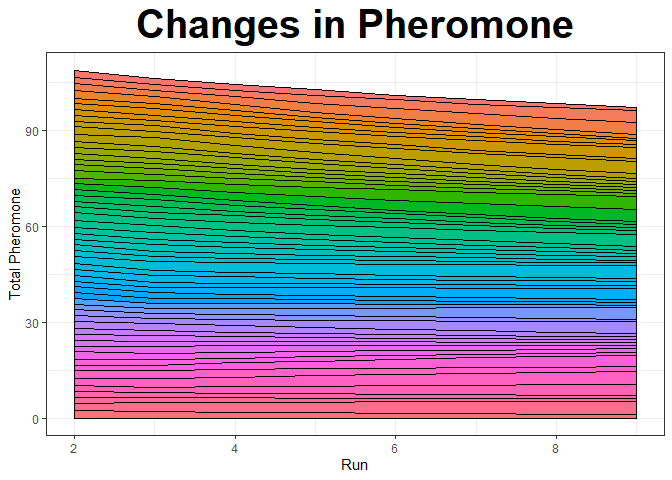
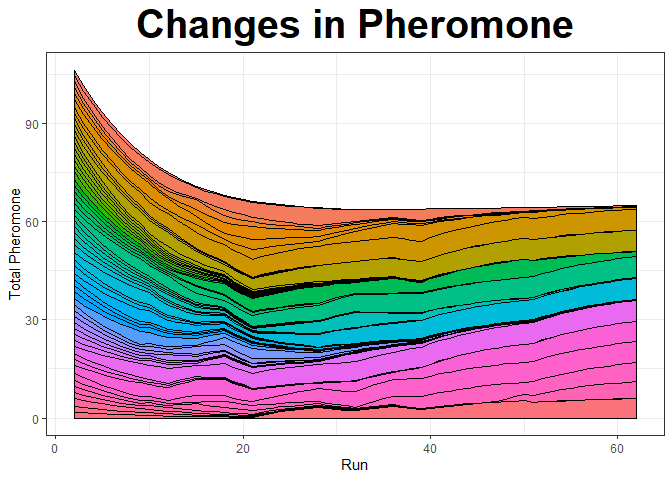
Updated README examples for additional clarity

diff --git a/README.md b/README.md
@@ -72,27 +72,27 @@ data(simulated_test_data)
 set.seed(1)
 abilityShortForm = antcolony.lavaan(data = simulated_test_data,
 ants = 10, evaporation = 0.9, antModel = exampleAntModel,
-list.items = list.items, full = 56, i.per.f = 15,
+list.items = list.items, full = 56, i.per.f = 10,
 lavaan.model.specs = list(model.type = "cfa", auto.var = T, estimator = "default", 
                           ordered = unlist(list.items), int.ov.free = TRUE,
                           int.lv.free = FALSE, auto.fix.first = TRUE, 
                           auto.fix.single = TRUE, std.lv = FALSE, auto.cov.lv.x = TRUE, 
                           auto.th = TRUE, auto.delta = TRUE, 
                           auto.cov.y = TRUE),
-factors = 'Ability', steps = 50, fit.indices = c('cfi', 'rmsea'),
+factors = 'Ability', steps = 100, fit.indices = c('cfi', 'rmsea'),
 fit.statistics.test = "(cfi > 0.90)&(rmsea < 0.10)",
 summaryfile = NULL,
 feedbackfile = NULL,
 max.run = 100, parallel = T)
-##   Run number 1 and ant number 1.            Run number 1 and ant number 2.            Run number 1 and ant number 3.            Run number 1 and ant number 4.            Run number 1 and ant number 5.            Run number 1 and ant number 6.            Run number 1 and ant number 7.            Run number 1 and ant number 8.            Run number 1 and ant number 9.            Run number 1 and ant number 10.            Run number 2 and ant number 1.            Run number 2 and ant number 2.            Run number 2 and ant number 3.            Run number 2 and ant number 4.            Run number 2 and ant number 5.            Run number 2 and ant number 6.            Run number 2 and ant number 7.            Run number 2 and ant number 8.            Run number 2 and ant number 9.            Run number 2 and ant number 10.            Run number 3 and ant number 1.            Run number 3 and ant number 2.            Run number 3 and ant number 3.            Run number 3 and ant number 4.            Run number 3 and ant number 5.            Run number 3 and ant number 6.            Run number 3 and ant number 7.            Run number 3 and ant number 8.            Run number 3 and ant number 9.            Run number 3 and ant number 10.            Run number 4 and ant number 1.            Run number 4 and ant number 2.            Run number 4 and ant number 3.            Run number 4 and ant number 4.            Run number 4 and ant number 5.            Run number 4 and ant number 6.            Run number 4 and ant number 7.            Run number 4 and ant number 8.            Run number 4 and ant number 9.            Run number 4 and ant number 10.            Run number 5 and ant number 1.            Run number 5 and ant number 2.            Run number 5 and ant number 3.            Run number 5 and ant number 4.            Run number 5 and ant number 5.            Run number 5 and ant number 6.            Run number 5 and ant number 7.            Run number 5 and ant number 8.            Run number 5 and ant number 9.            Run number 5 and ant number 10.            Run number 6 and ant number 1.            Run number 6 and ant number 2.            Run number 6 and ant number 3.            Run number 6 and ant number 4.            Run number 6 and ant number 5.            Run number 6 and ant number 6.            Run number 6 and ant number 7.            Run number 6 and ant number 8.            Run number 6 and ant number 9.            Run number 6 and ant number 10.            Run number 7 and ant number 1.            Run number 7 and ant number 2.            Run number 7 and ant number 3.            Run number 7 and ant number 4.            Run number 7 and ant number 5.            Run number 7 and ant number 6.            Run number 7 and ant number 7.            Run number 7 and ant number 8.            Run number 7 and ant number 9.            Run number 7 and ant number 10.            Run number 8 and ant number 1.            Run number 8 and ant number 2.            Run number 8 and ant number 3.            Run number 8 and ant number 4.            Run number 8 and ant number 5.            Run number 8 and ant number 6.            Run number 8 and ant number 7.            Run number 8 and ant number 8.            Run number 8 and ant number 9.            Run number 8 and ant number 10.           [1] "Compiling results."
+##   Run number 1 and ant number 1.            Run number 1 and ant number 2.            Run number 1 and ant number 3.            Run number 1 and ant number 4.            Run number 1 and ant number 5.            Run number 1 and ant number 6.            Run number 1 and ant number 7.            Run number 1 and ant number 8.            Run number 1 and ant number 9.            Run number 1 and ant number 10.            Run number 2 and ant number 1.            Run number 2 and ant number 2.            Run number 2 and ant number 3.            Run number 2 and ant number 4.            Run number 2 and ant number 5.            Run number 2 and ant number 6.            Run number 2 and ant number 7.            Run number 2 and ant number 8.            Run number 2 and ant number 9.            Run number 2 and ant number 10.            Run number 3 and ant number 1.            Run number 3 and ant number 2.            Run number 3 and ant number 3.            Run number 3 and ant number 4.            Run number 3 and ant number 5.            Run number 3 and ant number 6.            Run number 3 and ant number 7.            Run number 3 and ant number 8.            Run number 3 and ant number 9.            Run number 3 and ant number 10.            Run number 4 and ant number 1.            Run number 4 and ant number 2.            Run number 4 and ant number 3.            Run number 4 and ant number 4.            Run number 4 and ant number 5.            Run number 4 and ant number 6.            Run number 4 and ant number 7.            Run number 4 and ant number 8.            Run number 4 and ant number 9.            Run number 4 and ant number 10.            Run number 5 and ant number 1.            Run number 5 and ant number 2.            Run number 5 and ant number 3.            Run number 5 and ant number 4.            Run number 5 and ant number 5.            Run number 5 and ant number 6.            Run number 5 and ant number 7.            Run number 5 and ant number 8.            Run number 5 and ant number 9.            Run number 5 and ant number 10.            Run number 6 and ant number 1.            Run number 6 and ant number 2.            Run number 6 and ant number 3.            Run number 6 and ant number 4.            Run number 6 and ant number 5.            Run number 6 and ant number 6.            Run number 6 and ant number 7.            Run number 6 and ant number 8.            Run number 6 and ant number 9.            Run number 6 and ant number 10.            Run number 7 and ant number 1.            Run number 7 and ant number 2.            Run number 7 and ant number 3.            Run number 7 and ant number 4.            Run number 7 and ant number 5.            Run number 7 and ant number 6.            Run number 7 and ant number 7.            Run number 7 and ant number 8.            Run number 7 and ant number 9.            Run number 7 and ant number 10.            Run number 8 and ant number 1.            Run number 8 and ant number 2.            Run number 8 and ant number 3.            Run number 8 and ant number 4.            Run number 8 and ant number 5.            Run number 8 and ant number 6.            Run number 8 and ant number 7.            Run number 8 and ant number 8.            Run number 8 and ant number 9.            Run number 8 and ant number 10.            Run number 9 and ant number 1.            Run number 9 and ant number 2.            Run number 9 and ant number 3.            Run number 9 and ant number 4.            Run number 9 and ant number 5.            Run number 9 and ant number 6.            Run number 9 and ant number 7.            Run number 9 and ant number 8.            Run number 9 and ant number 9.            Run number 9 and ant number 10.            Run number 10 and ant number 1.            Run number 10 and ant number 2.            Run number 10 and ant number 3.            Run number 10 and ant number 4.            Run number 10 and ant number 5.            Run number 10 and ant number 6.            Run number 10 and ant number 7.            Run number 10 and ant number 8.            Run number 10 and ant number 9.            Run number 10 and ant number 10.            Run number 11 and ant number 1.            Run number 11 and ant number 2.            Run number 11 and ant number 3.            Run number 11 and ant number 4.            Run number 11 and ant number 5.            Run number 11 and ant number 6.            Run number 11 and ant number 7.            Run number 11 and ant number 8.            Run number 11 and ant number 9.            Run number 11 and ant number 10.            Run number 12 and ant number 1.            Run number 12 and ant number 2.            Run number 12 and ant number 3.            Run number 12 and ant number 4.            Run number 12 and ant number 5.            Run number 12 and ant number 6.            Run number 12 and ant number 7.            Run number 12 and ant number 8.            Run number 12 and ant number 9.            Run number 12 and ant number 10.            Run number 13 and ant number 1.            Run number 13 and ant number 2.            Run number 13 and ant number 3.            Run number 13 and ant number 4.            Run number 13 and ant number 5.            Run number 13 and ant number 6.            Run number 13 and ant number 7.            Run number 13 and ant number 8.            Run number 13 and ant number 9.            Run number 13 and ant number 10.            Run number 14 and ant number 1.            Run number 14 and ant number 2.            Run number 14 and ant number 3.            Run number 14 and ant number 4.            Run number 14 and ant number 5.            Run number 14 and ant number 6.            Run number 14 and ant number 7.            Run number 14 and ant number 8.            Run number 14 and ant number 9.            Run number 14 and ant number 10.            Run number 15 and ant number 1.            Run number 15 and ant number 2.            Run number 15 and ant number 3.            Run number 15 and ant number 4.            Run number 15 and ant number 5.            Run number 15 and ant number 6.            Run number 15 and ant number 7.            Run number 15 and ant number 8.            Run number 15 and ant number 9.            Run number 15 and ant number 10.            Run number 16 and ant number 1.            Run number 16 and ant number 2.            Run number 16 and ant number 3.            Run number 16 and ant number 4.            Run number 16 and ant number 5.            Run number 16 and ant number 6.            Run number 16 and ant number 7.            Run number 16 and ant number 8.            Run number 16 and ant number 9.            Run number 16 and ant number 10.            Run number 17 and ant number 1.            Run number 17 and ant number 2.            Run number 17 and ant number 3.            Run number 17 and ant number 4.            Run number 17 and ant number 5.            Run number 17 and ant number 6.            Run number 17 and ant number 7.            Run number 17 and ant number 8.            Run number 17 and ant number 9.            Run number 17 and ant number 10.            Run number 18 and ant number 1.            Run number 18 and ant number 2.            Run number 18 and ant number 3.            Run number 18 and ant number 4.            Run number 18 and ant number 5.            Run number 18 and ant number 6.            Run number 18 and ant number 7.            Run number 18 and ant number 8.            Run number 18 and ant number 9.            Run number 18 and ant number 10.            Run number 19 and ant number 1.            Run number 19 and ant number 2.            Run number 19 and ant number 3.            Run number 19 and ant number 4.            Run number 19 and ant number 5.            Run number 19 and ant number 6.            Run number 19 and ant number 7.            Run number 19 and ant number 8.            Run number 19 and ant number 9.            Run number 19 and ant number 10.            Run number 20 and ant number 1.            Run number 20 and ant number 2.            Run number 20 and ant number 3.            Run number 20 and ant number 4.            Run number 20 and ant number 5.            Run number 20 and ant number 6.            Run number 20 and ant number 7.            Run number 20 and ant number 8.            Run number 20 and ant number 9.            Run number 20 and ant number 10.            Run number 21 and ant number 1.            Run number 21 and ant number 2.            Run number 21 and ant number 3.            Run number 21 and ant number 4.            Run number 21 and ant number 5.            Run number 21 and ant number 6.            Run number 21 and ant number 7.            Run number 21 and ant number 8.            Run number 21 and ant number 9.            Run number 21 and ant number 10.            Run number 22 and ant number 1.            Run number 22 and ant number 2.            Run number 22 and ant number 3.            Run number 22 and ant number 4.            Run number 22 and ant number 5.            Run number 22 and ant number 6.            Run number 22 and ant number 7.            Run number 22 and ant number 8.            Run number 22 and ant number 9.            Run number 22 and ant number 10.            Run number 23 and ant number 1.            Run number 23 and ant number 2.            Run number 23 and ant number 3.            Run number 23 and ant number 4.            Run number 23 and ant number 5.            Run number 23 and ant number 6.            Run number 23 and ant number 7.            Run number 23 and ant number 8.            Run number 23 and ant number 9.            Run number 23 and ant number 10.            Run number 24 and ant number 1.            Run number 24 and ant number 2.            Run number 24 and ant number 3.            Run number 24 and ant number 4.            Run number 24 and ant number 5.            Run number 24 and ant number 6.            Run number 24 and ant number 7.            Run number 24 and ant number 8.            Run number 24 and ant number 9.            Run number 24 and ant number 10.            Run number 25 and ant number 1.            Run number 25 and ant number 2.            Run number 25 and ant number 3.            Run number 25 and ant number 4.            Run number 25 and ant number 5.            Run number 25 and ant number 6.            Run number 25 and ant number 7.            Run number 25 and ant number 8.            Run number 25 and ant number 9.            Run number 25 and ant number 10.            Run number 26 and ant number 1.            Run number 26 and ant number 2.            Run number 26 and ant number 3.            Run number 26 and ant number 4.            Run number 26 and ant number 5.            Run number 26 and ant number 6.            Run number 26 and ant number 7.            Run number 26 and ant number 8.            Run number 26 and ant number 9.            Run number 26 and ant number 10.            Run number 27 and ant number 1.            Run number 27 and ant number 2.            Run number 27 and ant number 3.            Run number 27 and ant number 4.            Run number 27 and ant number 5.            Run number 27 and ant number 6.            Run number 27 and ant number 7.            Run number 27 and ant number 8.            Run number 27 and ant number 9.            Run number 27 and ant number 10.            Run number 28 and ant number 1.            Run number 28 and ant number 2.            Run number 28 and ant number 3.            Run number 28 and ant number 4.            Run number 28 and ant number 5.            Run number 28 and ant number 6.            Run number 28 and ant number 7.            Run number 28 and ant number 8.            Run number 28 and ant number 9.            Run number 28 and ant number 10.            Run number 29 and ant number 1.            Run number 29 and ant number 2.            Run number 29 and ant number 3.            Run number 29 and ant number 4.            Run number 29 and ant number 5.            Run number 29 and ant number 6.            Run number 29 and ant number 7.            Run number 29 and ant number 8.            Run number 29 and ant number 9.            Run number 29 and ant number 10.            Run number 30 and ant number 1.            Run number 30 and ant number 2.            Run number 30 and ant number 3.            Run number 30 and ant number 4.            Run number 30 and ant number 5.            Run number 30 and ant number 6.            Run number 30 and ant number 7.            Run number 30 and ant number 8.            Run number 30 and ant number 9.            Run number 30 and ant number 10.            Run number 31 and ant number 1.            Run number 31 and ant number 2.            Run number 31 and ant number 3.            Run number 31 and ant number 4.            Run number 31 and ant number 5.            Run number 31 and ant number 6.            Run number 31 and ant number 7.            Run number 31 and ant number 8.            Run number 31 and ant number 9.            Run number 31 and ant number 10.            Run number 32 and ant number 1.            Run number 32 and ant number 2.            Run number 32 and ant number 3.            Run number 32 and ant number 4.            Run number 32 and ant number 5.            Run number 32 and ant number 6.            Run number 32 and ant number 7.            Run number 32 and ant number 8.            Run number 32 and ant number 9.            Run number 32 and ant number 10.            Run number 33 and ant number 1.            Run number 33 and ant number 2.            Run number 33 and ant number 3.            Run number 33 and ant number 4.            Run number 33 and ant number 5.            Run number 33 and ant number 6.            Run number 33 and ant number 7.            Run number 33 and ant number 8.            Run number 33 and ant number 9.            Run number 33 and ant number 10.            Run number 34 and ant number 1.            Run number 34 and ant number 2.            Run number 34 and ant number 3.            Run number 34 and ant number 4.            Run number 34 and ant number 5.            Run number 34 and ant number 6.            Run number 34 and ant number 7.            Run number 34 and ant number 8.            Run number 34 and ant number 9.            Run number 34 and ant number 10.            Run number 35 and ant number 1.            Run number 35 and ant number 2.            Run number 35 and ant number 3.            Run number 35 and ant number 4.            Run number 35 and ant number 5.            Run number 35 and ant number 6.            Run number 35 and ant number 7.            Run number 35 and ant number 8.            Run number 35 and ant number 9.            Run number 35 and ant number 10.            Run number 36 and ant number 1.            Run number 36 and ant number 2.            Run number 36 and ant number 3.            Run number 36 and ant number 4.            Run number 36 and ant number 5.            Run number 36 and ant number 6.            Run number 36 and ant number 7.            Run number 36 and ant number 8.            Run number 36 and ant number 9.            Run number 36 and ant number 10.            Run number 37 and ant number 1.            Run number 37 and ant number 2.            Run number 37 and ant number 3.            Run number 37 and ant number 4.            Run number 37 and ant number 5.            Run number 37 and ant number 6.            Run number 37 and ant number 7.            Run number 37 and ant number 8.            Run number 37 and ant number 9.            Run number 37 and ant number 10.            Run number 38 and ant number 1.            Run number 38 and ant number 2.            Run number 38 and ant number 3.            Run number 38 and ant number 4.            Run number 38 and ant number 5.            Run number 38 and ant number 6.            Run number 38 and ant number 7.            Run number 38 and ant number 8.            Run number 38 and ant number 9.            Run number 38 and ant number 10.            Run number 39 and ant number 1.            Run number 39 and ant number 2.            Run number 39 and ant number 3.            Run number 39 and ant number 4.            Run number 39 and ant number 5.            Run number 39 and ant number 6.            Run number 39 and ant number 7.            Run number 39 and ant number 8.            Run number 39 and ant number 9.            Run number 39 and ant number 10.            Run number 40 and ant number 1.            Run number 40 and ant number 2.            Run number 40 and ant number 3.            Run number 40 and ant number 4.            Run number 40 and ant number 5.            Run number 40 and ant number 6.            Run number 40 and ant number 7.            Run number 40 and ant number 8.            Run number 40 and ant number 9.            Run number 40 and ant number 10.            Run number 41 and ant number 1.            Run number 41 and ant number 2.            Run number 41 and ant number 3.            Run number 41 and ant number 4.            Run number 41 and ant number 5.            Run number 41 and ant number 6.            Run number 41 and ant number 7.            Run number 41 and ant number 8.            Run number 41 and ant number 9.            Run number 41 and ant number 10.            Run number 42 and ant number 1.            Run number 42 and ant number 2.            Run number 42 and ant number 3.            Run number 42 and ant number 4.            Run number 42 and ant number 5.            Run number 42 and ant number 6.            Run number 42 and ant number 7.            Run number 42 and ant number 8.            Run number 42 and ant number 9.            Run number 42 and ant number 10.            Run number 43 and ant number 1.            Run number 43 and ant number 2.            Run number 43 and ant number 3.            Run number 43 and ant number 4.            Run number 43 and ant number 5.            Run number 43 and ant number 6.            Run number 43 and ant number 7.            Run number 43 and ant number 8.            Run number 43 and ant number 9.            Run number 43 and ant number 10.            Run number 44 and ant number 1.            Run number 44 and ant number 2.            Run number 44 and ant number 3.            Run number 44 and ant number 4.            Run number 44 and ant number 5.            Run number 44 and ant number 6.            Run number 44 and ant number 7.            Run number 44 and ant number 8.            Run number 44 and ant number 9.            Run number 44 and ant number 10.            Run number 45 and ant number 1.            Run number 45 and ant number 2.            Run number 45 and ant number 3.            Run number 45 and ant number 4.            Run number 45 and ant number 5.            Run number 45 and ant number 6.            Run number 45 and ant number 7.            Run number 45 and ant number 8.            Run number 45 and ant number 9.            Run number 45 and ant number 10.            Run number 46 and ant number 1.            Run number 46 and ant number 2.            Run number 46 and ant number 3.            Run number 46 and ant number 4.            Run number 46 and ant number 5.            Run number 46 and ant number 6.            Run number 46 and ant number 7.            Run number 46 and ant number 8.            Run number 46 and ant number 9.            Run number 46 and ant number 10.            Run number 47 and ant number 1.            Run number 47 and ant number 2.            Run number 47 and ant number 3.            Run number 47 and ant number 4.            Run number 47 and ant number 5.            Run number 47 and ant number 6.            Run number 47 and ant number 7.            Run number 47 and ant number 8.            Run number 47 and ant number 9.            Run number 47 and ant number 10.            Run number 48 and ant number 1.            Run number 48 and ant number 2.            Run number 48 and ant number 3.            Run number 48 and ant number 4.            Run number 48 and ant number 5.            Run number 48 and ant number 6.            Run number 48 and ant number 7.            Run number 48 and ant number 8.            Run number 48 and ant number 9.            Run number 48 and ant number 10.            Run number 49 and ant number 1.            Run number 49 and ant number 2.            Run number 49 and ant number 3.            Run number 49 and ant number 4.            Run number 49 and ant number 5.            Run number 49 and ant number 6.            Run number 49 and ant number 7.            Run number 49 and ant number 8.            Run number 49 and ant number 9.            Run number 49 and ant number 10.            Run number 50 and ant number 1.            Run number 50 and ant number 2.            Run number 50 and ant number 3.            Run number 50 and ant number 4.            Run number 50 and ant number 5.            Run number 50 and ant number 6.            Run number 50 and ant number 7.            Run number 50 and ant number 8.            Run number 50 and ant number 9.            Run number 50 and ant number 10.            Run number 51 and ant number 1.            Run number 51 and ant number 2.            Run number 51 and ant number 3.            Run number 51 and ant number 4.            Run number 51 and ant number 5.            Run number 51 and ant number 6.            Run number 51 and ant number 7.            Run number 51 and ant number 8.            Run number 51 and ant number 9.            Run number 51 and ant number 10.            Run number 52 and ant number 1.            Run number 52 and ant number 2.            Run number 52 and ant number 3.            Run number 52 and ant number 4.            Run number 52 and ant number 5.            Run number 52 and ant number 6.            Run number 52 and ant number 7.            Run number 52 and ant number 8.            Run number 52 and ant number 9.            Run number 52 and ant number 10.            Run number 53 and ant number 1.            Run number 53 and ant number 2.            Run number 53 and ant number 3.            Run number 53 and ant number 4.            Run number 53 and ant number 5.            Run number 53 and ant number 6.            Run number 53 and ant number 7.            Run number 53 and ant number 8.            Run number 53 and ant number 9.            Run number 53 and ant number 10.            Run number 54 and ant number 1.            Run number 54 and ant number 2.            Run number 54 and ant number 3.            Run number 54 and ant number 4.            Run number 54 and ant number 5.            Run number 54 and ant number 6.            Run number 54 and ant number 7.            Run number 54 and ant number 8.            Run number 54 and ant number 9.            Run number 54 and ant number 10.            Run number 55 and ant number 1.            Run number 55 and ant number 2.            Run number 55 and ant number 3.            Run number 55 and ant number 4.            Run number 55 and ant number 5.            Run number 55 and ant number 6.            Run number 55 and ant number 7.            Run number 55 and ant number 8.            Run number 55 and ant number 9.            Run number 55 and ant number 10.            Run number 56 and ant number 1.            Run number 56 and ant number 2.            Run number 56 and ant number 3.            Run number 56 and ant number 4.            Run number 56 and ant number 5.            Run number 56 and ant number 6.            Run number 56 and ant number 7.            Run number 56 and ant number 8.            Run number 56 and ant number 9.            Run number 56 and ant number 10.            Run number 57 and ant number 1.            Run number 57 and ant number 2.            Run number 57 and ant number 3.            Run number 57 and ant number 4.            Run number 57 and ant number 5.            Run number 57 and ant number 6.            Run number 57 and ant number 7.            Run number 57 and ant number 8.            Run number 57 and ant number 9.            Run number 57 and ant number 10.            Run number 58 and ant number 1.            Run number 58 and ant number 2.            Run number 58 and ant number 3.            Run number 58 and ant number 4.            Run number 58 and ant number 5.            Run number 58 and ant number 6.            Run number 58 and ant number 7.            Run number 58 and ant number 8.            Run number 58 and ant number 9.            Run number 58 and ant number 10.            Run number 59 and ant number 1.            Run number 59 and ant number 2.            Run number 59 and ant number 3.            Run number 59 and ant number 4.            Run number 59 and ant number 5.            Run number 59 and ant number 6.            Run number 59 and ant number 7.            Run number 59 and ant number 8.            Run number 59 and ant number 9.            Run number 59 and ant number 10.            Run number 60 and ant number 1.            Run number 60 and ant number 2.            Run number 60 and ant number 3.            Run number 60 and ant number 4.            Run number 60 and ant number 5.            Run number 60 and ant number 6.            Run number 60 and ant number 7.            Run number 60 and ant number 8.            Run number 60 and ant number 9.            Run number 60 and ant number 10.            Run number 61 and ant number 1.            Run number 61 and ant number 2.            Run number 61 and ant number 3.            Run number 61 and ant number 4.            Run number 61 and ant number 5.            Run number 61 and ant number 6.            Run number 61 and ant number 7.            Run number 61 and ant number 8.            Run number 61 and ant number 9.            Run number 61 and ant number 10.           [1] "Compiling results."
 abilityShortForm # print the results of the final short form
 ##  Algorithm: Ant Colony Optimization
-##  Total Run Time: 33.628 secs
+##  Total Run Time: 2.419 mins
 ##  
 ##  Function call:
 ##  antcolony.lavaan(data = simulated_test_data, ants = 10, evaporation = 0.9,
-##    antModel = exampleAntModel, list.items = list.items, full = 56, i.per.f = 15,
-##    factors = "Ability", steps = 50, lavaan.model.specs = list(model.type = "cfa",
+##    antModel = exampleAntModel, list.items = list.items, full = 56, i.per.f = 10,
+##    factors = "Ability", steps = 100, lavaan.model.specs = list(model.type = "cfa",
 ##    auto.var = T, estimator = "default", ordered = unlist(list.items), int.ov.free
 ##    = TRUE, int.lv.free = FALSE, auto.fix.first = TRUE, auto.fix.single = TRUE,
 ##    std.lv = FALSE, auto.cov.lv.x = TRUE, auto.th = TRUE, auto.delta = TRUE,
@@ -102,8 +102,8 @@ abilityShortForm # print the results of the final short form
 ##  
 ##  Final Model Syntax:
 ##  
-##  Ability =~ Item11 + Item56 + Item8 + Item18 + Item55 + Item16 + Item30 + Item53
-##    + Item46 + Item25 + Item44 + Item10 + Item40 + Item37 + Item26
+##  Ability =~ Item54 + Item37 + Item55 + Item30 + Item56 + Item9 + Item50 + Item19
+##    + Item53 + Item16
 ##  Outcome ~ Ability
 plot(abilityShortForm, type = 'pheromone') # the pheromone plot for class "antcolony"
 ```
@@ -112,7 +112,7 @@ plot(abilityShortForm, type = 'pheromone') # the pheromone plot for class "antco
 
 A similar example can be found in the `antcolony.mplus` function, but
 requires you to have a valid Mplus installation on the computer. It took
-a total of 36.42 secs to run this example.
+a total of 2.47 mins to run this example.
 
 ### Tabu Search Algorithm
 
@@ -156,10 +156,12 @@ Trait2 =~ 0*Item1 + 0*Item2 + 0*Item3 + 0*Item4 + 0*Item5 + 0*Item6 + Item7 + It
 '
 # fit the initial misspecified model for Tabu
 init.model <- lavaan::lavaan(model = tabuModel, data = tabuData, 
-                             auto.var=TRUE, auto.fix.first=FALSE, std.lv=TRUE,auto.cov.lv.x=FALSE)
+                             auto.var=TRUE, auto.fix.first=FALSE, std.lv=TRUE,
+                             auto.cov.lv.x=FALSE)
 
 # use search.prep to prepare for the Tabu search
-ptab <- search.prep(fitted.model = init.model, loadings=TRUE, fcov=FALSE, errors=FALSE)
+ptab <- search.prep(fitted.model = init.model, loadings=TRUE, fcov=FALSE, 
+                    errors=FALSE)
 
 Tabu_example <- suppressWarnings(tabu.sem(init.model = init.model, ptab = ptab, obj = AIC, niter = 20, tabu.size = 10)) # the suppressWarning wrapping hides the lavaan WARNING output from improper models
 ##  Running iteration 1 of 20.   Running iteration 2 of 20.   Running iteration 3 of 20.   Running iteration 4 of 20.   Running iteration 5 of 20.   Running iteration 6 of 20.   Running iteration 7 of 20.   Running iteration 8 of 20.   Running iteration 9 of 20.   Running iteration 10 of 20.   Running iteration 11 of 20.   Running iteration 12 of 20.   Running iteration 13 of 20.   Running iteration 14 of 20.   Running iteration 15 of 20.   Running iteration 16 of 20.   Running iteration 17 of 20.   Running iteration 18 of 20.   Running iteration 19 of 20.   Running iteration 20 of 20.
@@ -167,7 +169,7 @@ Tabu_example <- suppressWarnings(tabu.sem(init.model = init.model, ptab = ptab, 
 # check the final model
 summary(Tabu_example)
 ##  Algorithm: Tabu Search
-##  Total Run Time: 1.9 mins
+##  Total Run Time: 1.957 mins
 ##  
 ##  lavaan 0.6-5 ended normally after 43 iterations
 ##  
@@ -195,7 +197,7 @@ plot(Tabu_example)
 
 ![](README-Tabu%20example-1.png)<!-- -->
 
-It took a total of 1.91 mins to run this example.
+It took a total of 1.96 mins to run this example.
 
 The next Tabu example demonstrates how to use it to find a short form of
 a prespecified length with different data.
@@ -259,7 +261,7 @@ tabuCriterion = function(x) {
 # use the tabuShortForm function
 # reduce form to the best 12 items, 3 per factor
 tabuShort <- tabuShortForm(initialModel = tabuModel, originalData = tabuData,
-                           numItems = c(4,4,4,4), 
+                           numItems = c(3,3,3,3), 
                            criterion = tabuCriterion,
                            niter = 20, tabu.size = 10, verbose = FALSE
                            )
@@ -268,35 +270,35 @@ tabuShort <- tabuShortForm(initialModel = tabuModel, originalData = tabuData,
 # check the chosen model
 summary(tabuShort)
 ##  Algorithm: Tabu Search
-##  Total Run Time: 1.8 mins
+##  Total Run Time: 1.262 mins
 ##  
-##  lavaan 0.6-5 ended normally after 19 iterations
+##  lavaan 0.6-5 ended normally after 21 iterations
 ##  
 ##    Estimator                                         ML
 ##    Optimization method                           NLMINB
-##    Number of free parameters                         38
+##    Number of free parameters                         30
 ##                                                        
 ##    Number of observations                           600
 ##                                                        
 ##  Model Test User Model:
 ##                                                        
-##    Test statistic                                54.642
-##    Degrees of freedom                                98
+##    Test statistic                                15.868
+##    Degrees of freedom                                48
 ##    P-value (Chi-square)                           1.000
 ##  
 ##  
 ##  Final Model Syntax:
-##  Trait1 =~ Item3 + Item4 + Item11 + Item8
-##  Trait2 =~ Item16 + Item19 + Item20 + Item15
-##  Trait3 =~ Item30 + Item31 + Item35 + Item36
-##  Trait4 =~ Item40 + Item45 + Item43 + Item44
+##  Trait1 =~ Item6 + Item7 + Item10
+##  Trait2 =~ Item18 + Item16 + Item20
+##  Trait3 =~ Item30 + Item35 + Item31
+##  Trait4 =~ Item41 + Item40 + Item43
 # plot the changes in the objective function over each iteration
 plot(tabuShort)
 ```
 
 ![](README-Tabu%20short%20form-1.png)<!-- -->
 
-It took a total of 1.81 mins to run this example.
+It took a total of 1.27 mins to run this example.
 
 ### Simulated Annealing
 
@@ -338,7 +340,7 @@ SA_example <- simulatedAnnealing(initialModel = saModel, originalData = saData, 
 ##  Chain number 4 complete.
 summary(SA_example)
 ##  Algorithm: Simulated Annealing
-##  Total Run Time: 1.503 mins
+##  Total Run Time: 1.559 mins
 ##  
 ##  lavaan 0.6-5 ended normally after 15 iterations
 ##  
@@ -366,5 +368,5 @@ plot(SA_example) # plot showing how the fit value changes at each step
 
 ![](README-Simulated%20Annealing%20example-1.png)<!-- -->
 
-It took a total of 1.53 mins to run the SA example, and a total of 5.85
+It took a total of 1.59 mins to run the SA example, and a total of 7.29
 mins to run all four together.
